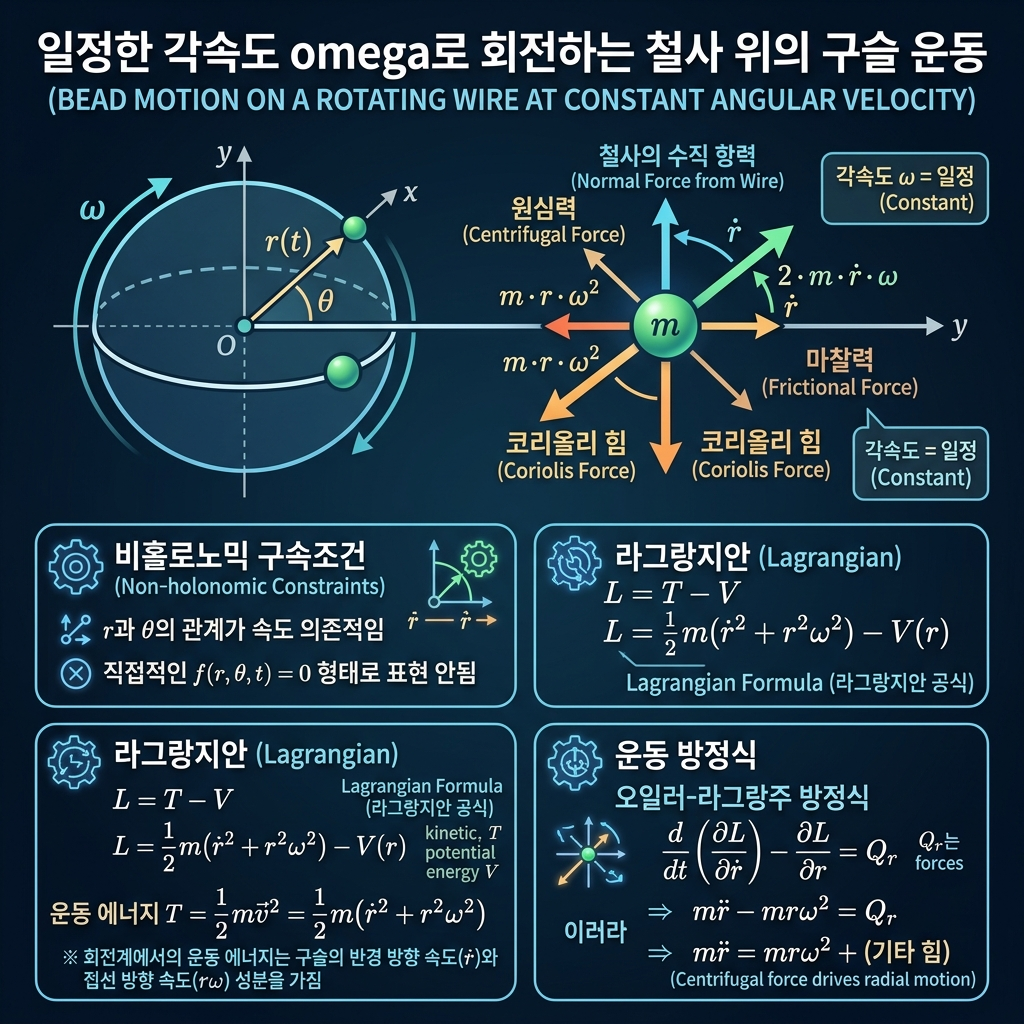
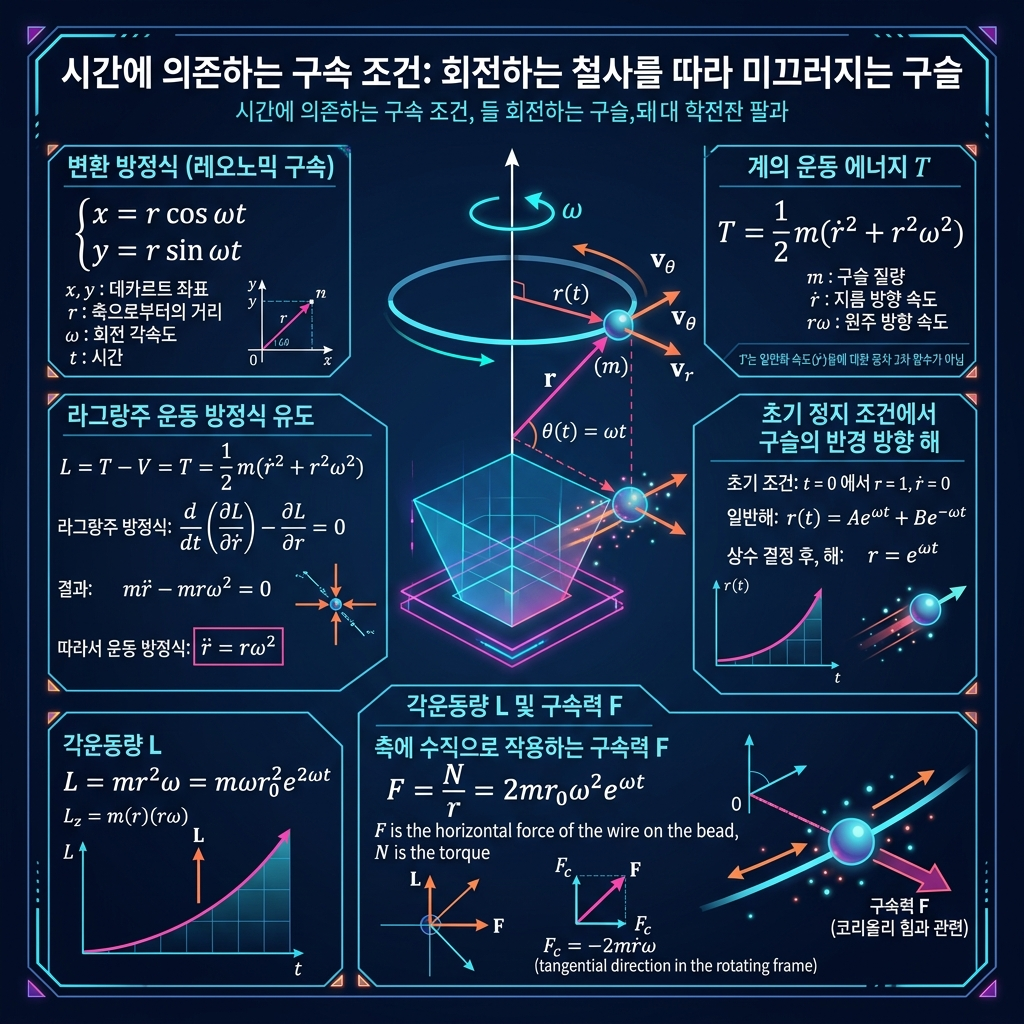
Deploy Chapter 1 Korean snacks with infographic image mappings

diff --git a/data/site-data.js b/data/site-data.js
@@ -1,5 +1,5 @@
 window.GOLDSTEIN_SITE_DATA = {
-  "generatedAt": "2026-06-20T07:33:04.487238+00:00",
+  "generatedAt": "2026-06-20T12:31:12.765199+00:00",
   "source": "Mechanics_Goldstein_Classical Chapters 1-2, PDFs excluded",
   "sections": [
     {